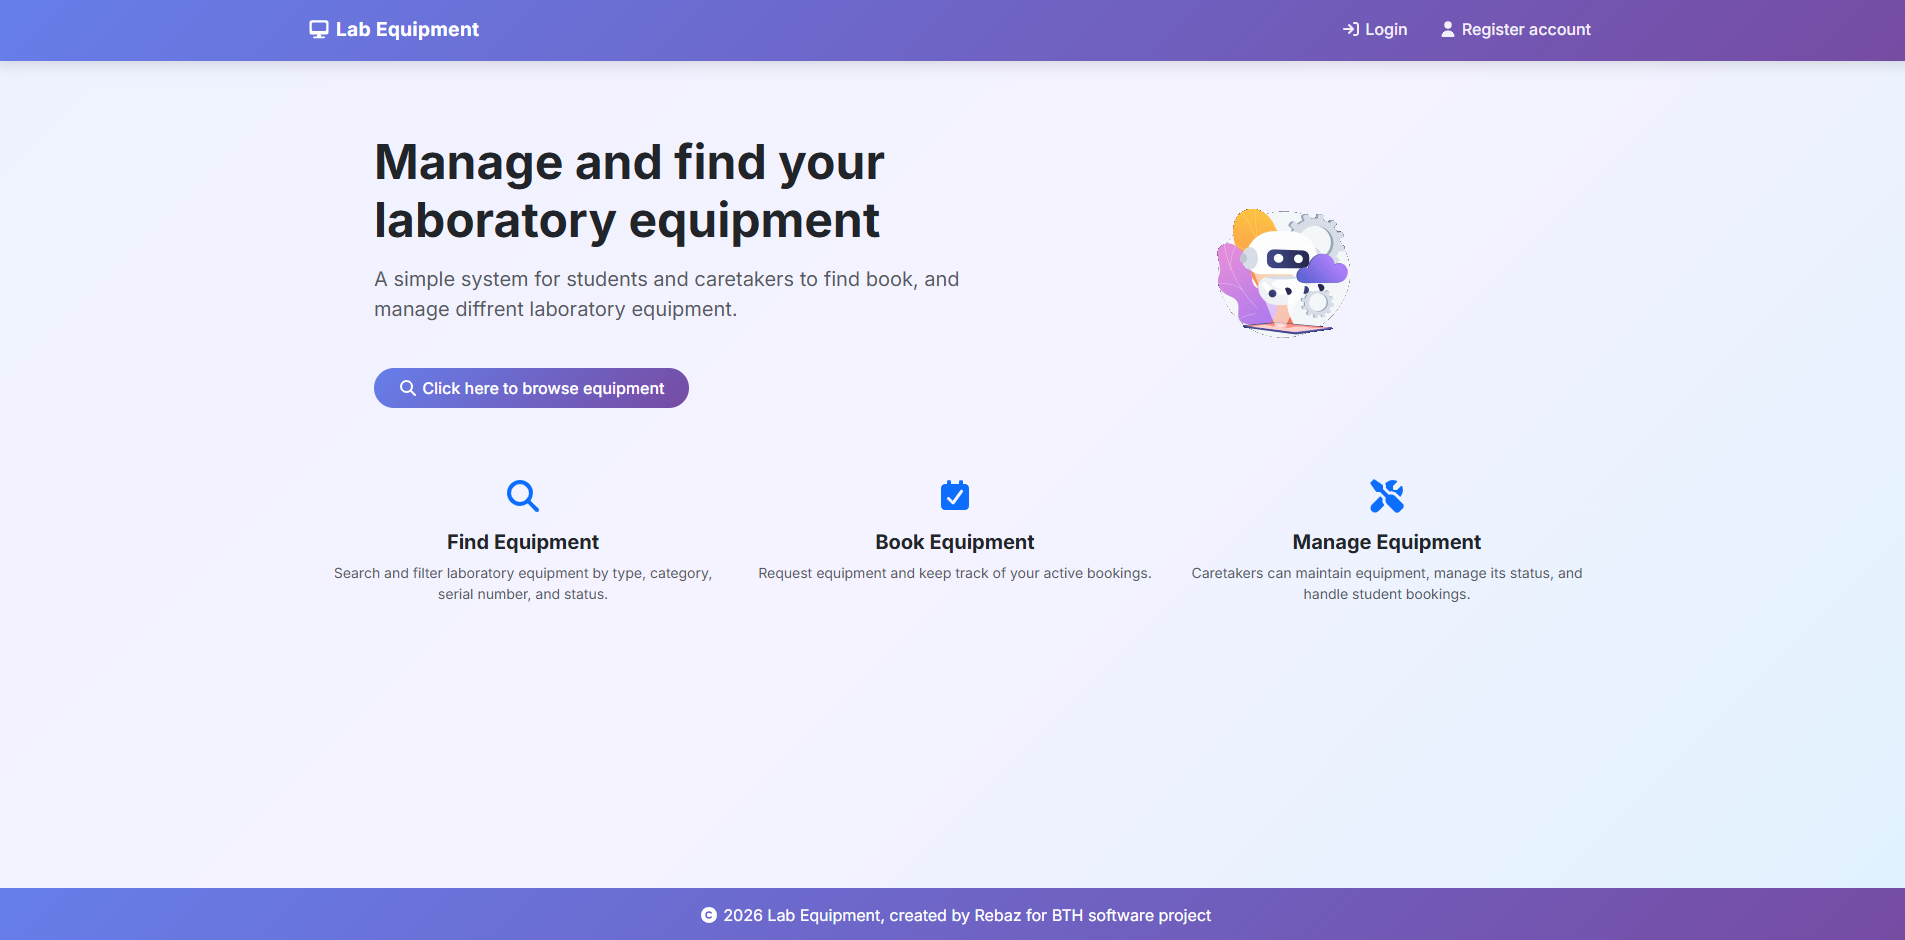
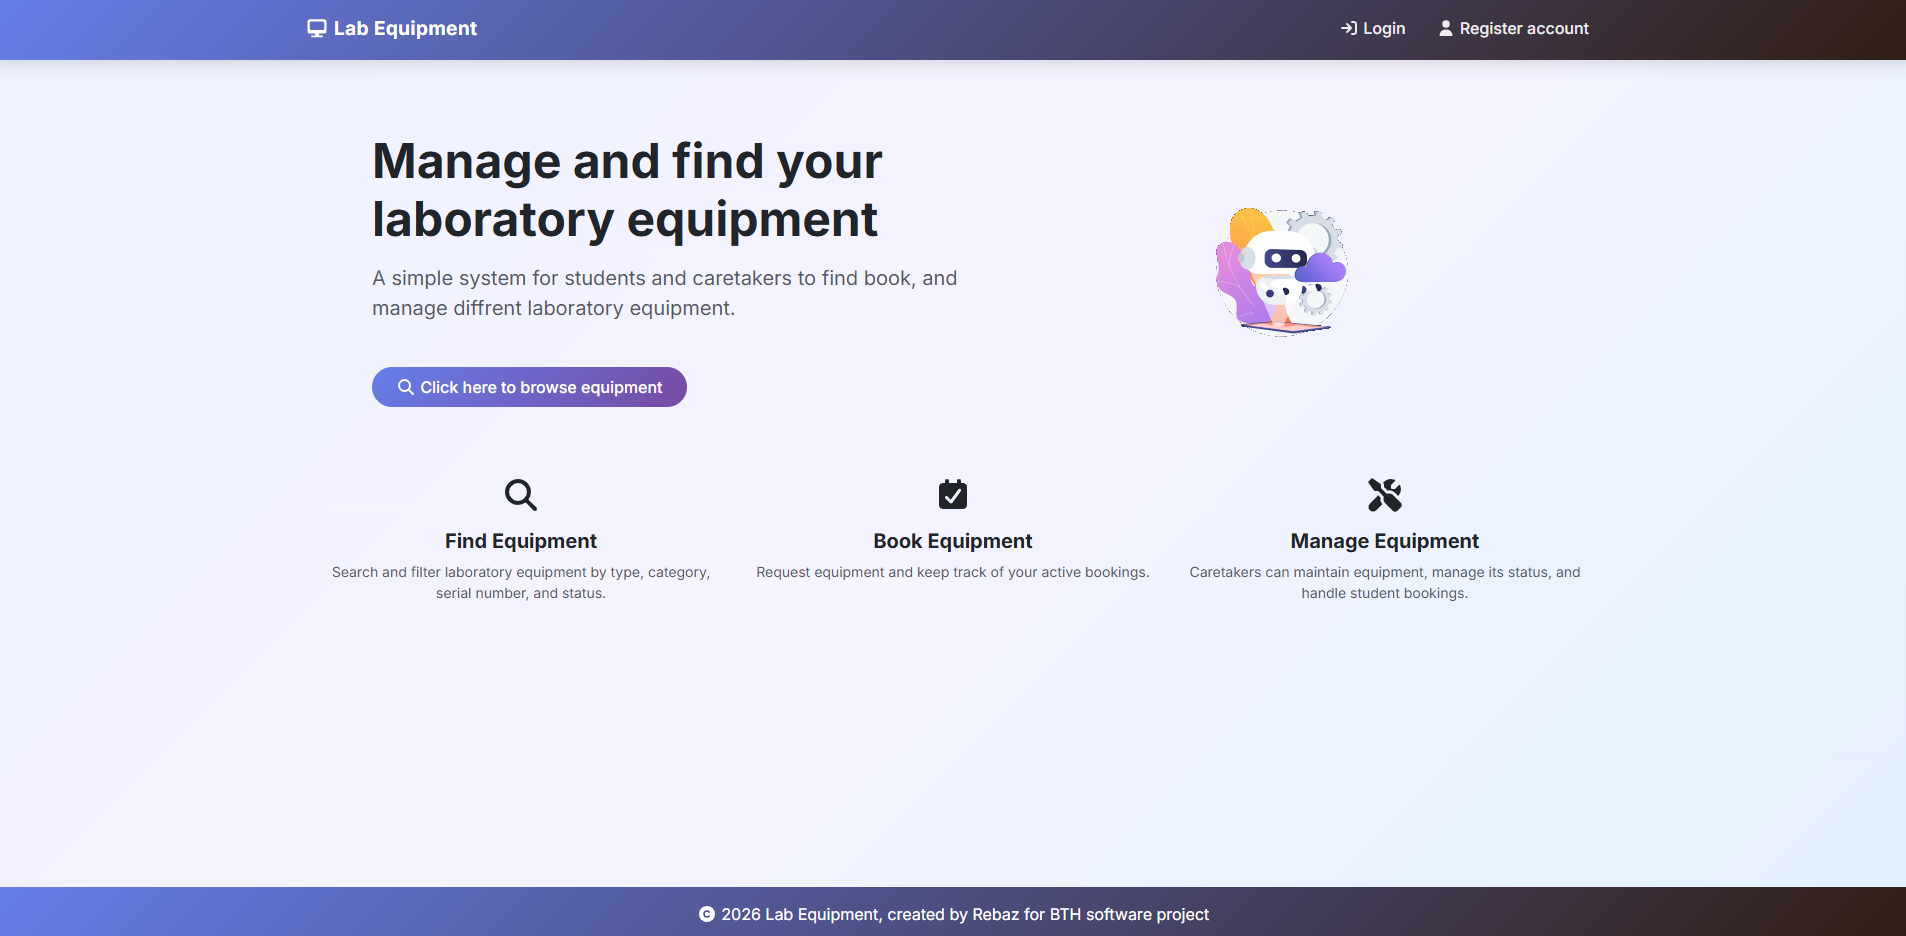
UPDATE README

diff --git a/README.md b/README.md
@@ -1,4 +1,4 @@
-# PA1493 Software Development Project (Distance) HT26
+# The lab equipment system project
 
 ---
 
